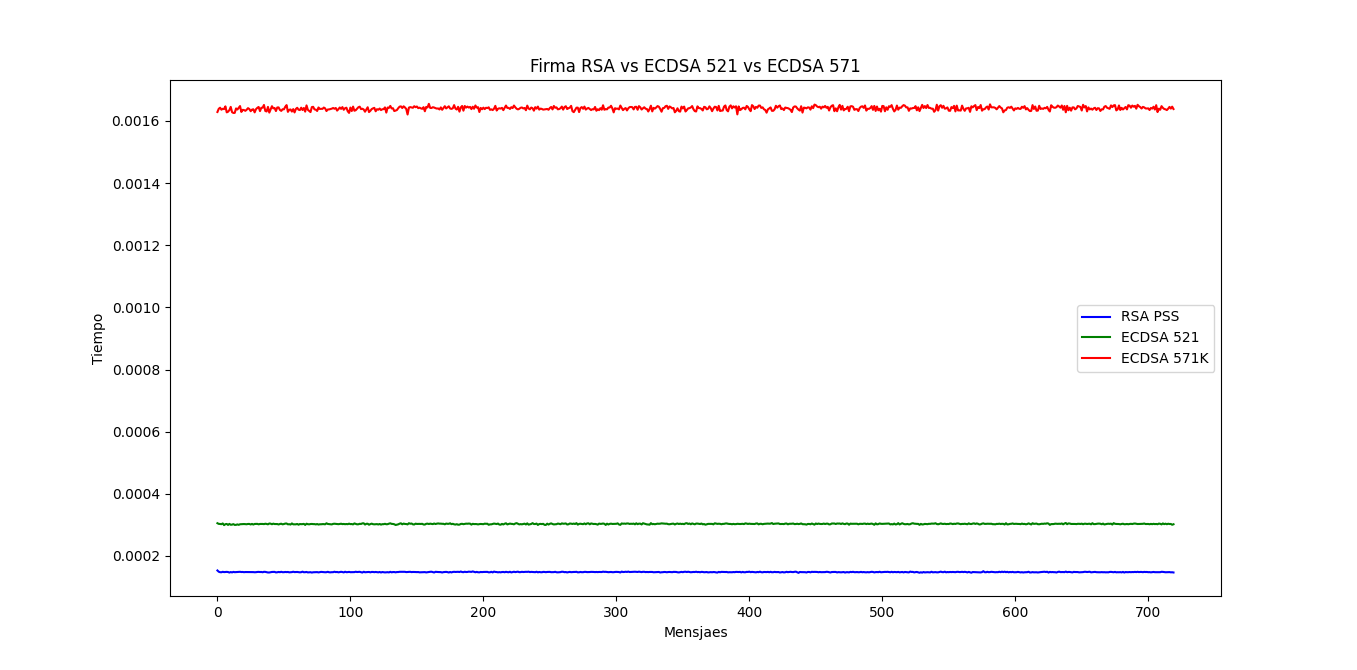
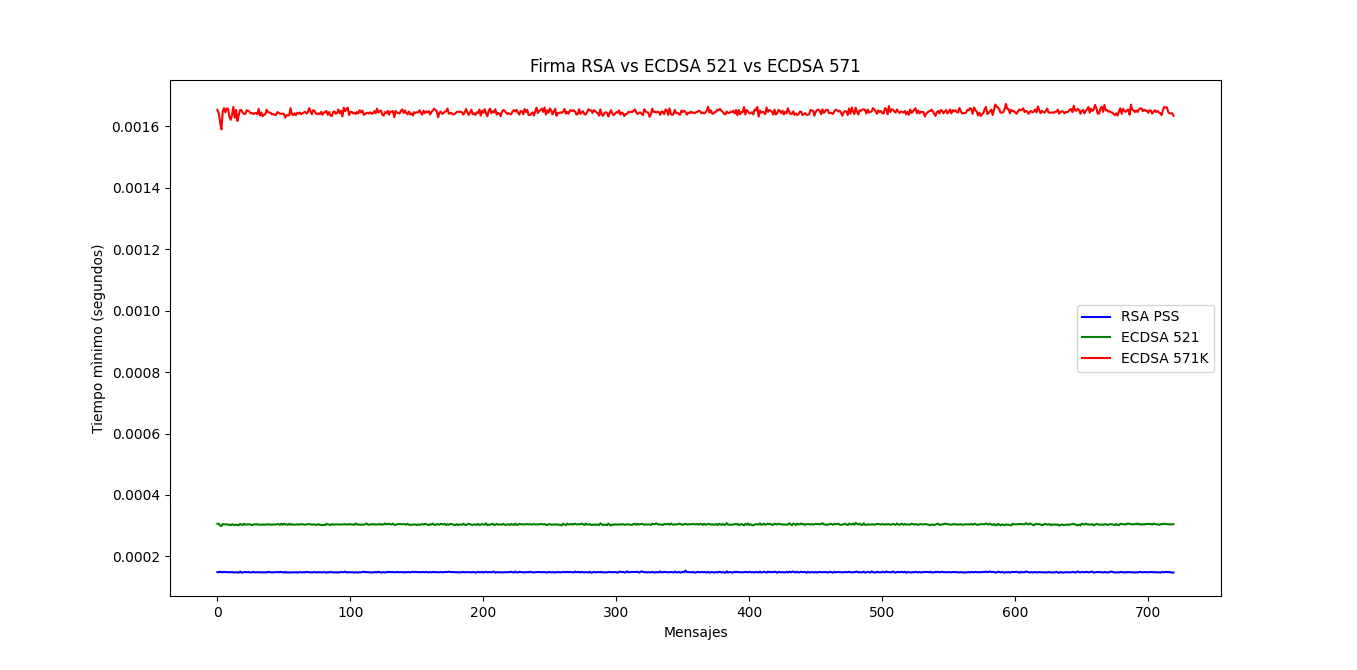
Actualizacion final. Cambio método de medicion de tiempo. Agrego graficas de cifrado y descifrado.

diff --git a/cifrado/test_cifrado.py b/cifrado/test_cifrado.py
@@ -7,16 +7,13 @@ from cryptography.hazmat.primitives.ciphers.modes import CBC
 from cryptography.hazmat.primitives.ciphers.modes import ECB
 from cryptography.hazmat.primitives.ciphers import Cipher, algorithms, modes
 
-import re
 import os
-import secrets
-from time import sleep
-from time import process_time_ns
+import time
+import timeit
 import matplotlib.pyplot as plt
 
 # Devuelve el tiempo mínimo de ejecución para cada algoritmo por cada tamaño de vector de prueba
-def test(v, n):
-    
+def test(v, n, r):
     # Minimo de cada algoritmo para cada vector de prueba
     min_chacha20_enc = [9999999999]*v
     min_chacha20_dec = [9999999999]*v
@@ -27,13 +24,12 @@ def test(v, n):
     min_oaep_enc = [9999999999]*v
     min_oaep_dec = [9999999999]*v
     
-    15625000
-    
     #-> Entradas
     
     #Llaves para RSA-OAEP (tamaño 1024, hash SHA-256)
-    private_key = rsa.generate_private_key(public_exponent=65537,key_size=1024)
-    public_key = private_key.public_key()
+    if r == 1:
+        private_key = rsa.generate_private_key(public_exponent=65537,key_size=1024)
+        public_key = private_key.public_key()
     #Llave para Chacha20 y AES (tamaño 256 bits = 32 bytes)
     key = os.urandom(32)
     #Nonce para Chacha20 (tamaño 128 bits = 16 bytes)
@@ -52,14 +48,12 @@ def test(v, n):
     
     # tamaño de vectores de prueba
     for i in range(v):
+        #print("Para "+str(i))
+        #Vector de tamaño fijo
+        message = os.urandom(62)
         
-        message = os.urandom(i)
-
         # número de pruebas por cada tamaño de vector 
         for j in range(n):
-            
-            #Mensaje diferente en cada iteración
-            #message= secrets.token_hex(v).encode()
             
             #Padding para AES
             padder = pad.PKCS7(128).padder() #bloques de 128 bits
@@ -67,84 +61,89 @@ def test(v, n):
             padded_data += padder.finalize()
             
             #Cifrado Chacha20 (key, nonce)
+            ti = timeit.default_timer() # inicio
             encryptor = cipher_chacha20.encryptor()
-            ti = process_time_ns() # inicio
             ct = encryptor.update(message)
-            tf = process_time_ns()  # fin
+            tf = timeit.default_timer()  # fin
             elapsed_time = tf - ti # tiempo de ejecucion)
             min_chacha20_enc[i] = min(min_chacha20_enc[i], elapsed_time) #Min por cada tamaño de vector
             
             #Decifrado Chacha20 (message)
+            ti = timeit.default_timer() # inicio
             decryptor = cipher_chacha20.decryptor()
-            ti = process_time_ns() # inicio
             pt = decryptor.update(ct)
-            tf = process_time_ns()  # fin
+            tf = timeit.default_timer()  # fin
             elapsed_time = tf - ti # tiempo de ejecucion)
             min_chacha20_dec[i] = min(min_chacha20_dec[i], elapsed_time) #Min por cada tamaño de vector
             
             #Cifrado AES-ECB
+            ti = timeit.default_timer() # inicio
             encryptor = cipher_aes_ecb.encryptor()
-            ti = process_time_ns() # inicio
             ct = encryptor.update(padded_data)
-            tf = process_time_ns()  # fin
+            tf = timeit.default_timer()  # fin
             elapsed_time = tf - ti # tiempo de ejecucion)
             min_ecb_enc[i] = min(min_ecb_enc[i], elapsed_time) #Min por cada tamaño de vector
 
             #Decifrado AES-ECB
+            ti = timeit.default_timer() # inicio
             decryptor = cipher_aes_ecb.decryptor()
-            ti = process_time_ns() # inicio
             pt = decryptor.update(ct)
-            tf = process_time_ns()  # fin
+            tf = timeit.default_timer()  # fin
             elapsed_time = tf - ti # tiempo de ejecucion)
             min_ecb_dec[i] = min(min_ecb_dec[i], elapsed_time) #Min por cada tamaño de vector
             
             #Cifrado AES-CBC
+            ti = timeit.default_timer() # inicio
             encryptor = cipher_aes_cbc.encryptor()
-            ti = process_time_ns() # inicio
             ct = encryptor.update(padded_data)
-            tf = process_time_ns()  # fin
+            tf = timeit.default_timer()  # fin
             elapsed_time = tf - ti # tiempo de ejecucion)
             min_cbc_enc[i] = min(min_cbc_enc[i], elapsed_time) #Min por cada tamaño de vector
 
             #Decifrado AES-CBC
+            ti = timeit.default_timer() # inicio
             decryptor = cipher_aes_cbc.decryptor()
-            ti = process_time_ns() # inicio
             pt = decryptor.update(ct)
-            tf = process_time_ns()  # fin
+            tf = timeit.default_timer()  # fin
             elapsed_time = tf - ti # tiempo de ejecucion)
             min_cbc_dec[i] = min(min_cbc_dec[i], elapsed_time) #Min por cada tamaño de vector
             
-            #Cifrado RSA-OAEP (mensaje)
-            ti = process_time_ns() # inicio
-            ct = public_key.encrypt(message, padding.OAEP(mgf=padding.MGF1(algorithm=hashes.SHA256()), algorithm=hashes.SHA256(), label=None))
-            tf = process_time_ns()  # fin
-            elapsed_time = tf - ti # tiempo de ejecucion)
-            min_oaep_enc[i] = min(min_oaep_enc[i], elapsed_time) #Min por cada tamaño de vector
+            if r == 1 :
+                #Cifrado RSA-OAEP (mensaje)
+                ti = timeit.default_timer() # inicio
+                ct = public_key.encrypt(message, padding.OAEP(mgf=padding.MGF1(algorithm=hashes.SHA256()), algorithm=hashes.SHA256(), label=None))
+                tf = timeit.default_timer()  # fin
+                elapsed_time = tf - ti # tiempo de ejecucion)
+                min_oaep_enc[i] = min(min_oaep_enc[i], elapsed_time) #Min por cada tamaño de vector
             
-            #Decifrado RSA-OAEP (ciphertext)
-            ti = process_time_ns() # inicio
-            pt = private_key.decrypt(ct, padding.OAEP(mgf=padding.MGF1(algorithm=hashes.SHA256()), algorithm=hashes.SHA256(), label=None))
-            tf = process_time_ns()  # fin
-            elapsed_time = tf - ti # tiempo de ejecucion)
-            min_oaep_dec[i] = min(min_oaep_dec[i], elapsed_time) #Min por cada tamaño de vector
+                #Decifrado RSA-OAEP (ciphertext)
+                ti = timeit.default_timer() # inicio
+                pt = private_key.decrypt(ct, padding.OAEP(mgf=padding.MGF1(algorithm=hashes.SHA256()), algorithm=hashes.SHA256(), label=None))
+                tf = timeit.default_timer()  # fin
+                elapsed_time = tf - ti # tiempo de ejecucion)
+                min_oaep_dec[i] = min(min_oaep_dec[i], elapsed_time) #Min por cada tamaño de vector
             
     return [min_chacha20_enc,min_chacha20_dec,min_ecb_enc,min_ecb_dec,min_cbc_enc,min_cbc_dec,min_oaep_enc,min_oaep_dec]
 
- # Devuelve el valor minimo entre dos valores
+#Devuelve el valor minimo entre dos valores
 def min(x,y):
     if x < y:
         return x
     else:
         return y
 
-#-> Main
-
 #Núm máx de tamaño de vector 62 bytes
-resultados = test(62,200)
+resultados = test(62,300,1)
+#Núm máx de tamaño de vector 600 bytes
+resultados2 = test(600,300,0)
 
 n = []
 for x in range(62):
     n.append(x)
+
+n2 = []
+for x in range(600):
+    n2.append(x)
     
 #Gráfica de cifrado
 plt.plot(n, resultados[0], 'r-', label='Chacha20')
@@ -152,10 +151,21 @@ plt.plot(n, resultados[2], 'g-', label='AES-ECB')
 plt.plot(n, resultados[4], 'b-', label='AES-CBC')
 plt.plot(n, resultados[6], 'y-', label='RSA-OAEP')
 plt.xlabel('Vectores de prueba')
-plt.ylabel('Minimo de tiempo de ejecuciòn (nanosegundos)')
+plt.ylabel('Mínimo de tiempo de ejecución')
 plt.legend(loc='upper left')
 plt.suptitle('Cifrado Chacha20 vs AES-ECB vs AES-CBC vs RSA-OAEP')
 plt.title('Tamaño de vectores de prueba 62 bytes')
+plt.show()
+
+#Gráfica de cifrado
+plt.plot(n2, resultados2[0], 'r-', label='Chacha20')
+plt.plot(n2, resultados2[2], 'g-', label='AES-ECB')
+plt.plot(n2, resultados2[4], 'b-', label='AES-CBC')
+plt.xlabel('Vectores de prueba')
+plt.ylabel('Mínimo de tiempo de ejecución')
+plt.legend(loc='upper left')
+plt.suptitle('Cifrado Chacha20 vs AES-ECB vs AES-CBC')
+plt.title('Tamaño de vectores de prueba 600 bytes')
 plt.show()
     
 #Gráfica de decifrado
@@ -164,8 +174,19 @@ plt.plot(n, resultados[3], 'g-', label='AES-ECB')
 plt.plot(n, resultados[5], 'b-', label='AES-CBC')
 plt.plot(n, resultados[7], 'y-', label='RSA-OAEP')
 plt.xlabel('Vectores de prueba')
-plt.ylabel('Minimo de tiempo de ejecuciòn (nanosegundos)')
+plt.ylabel('Mínimo de tiempo de ejecución')
 plt.legend(loc='upper left')
 plt.suptitle('Decifrado Chacha20 vs AES-ECB vs AES-CBC vs RSA-OAEP')
 plt.title('Tamaño de vectores de prueba 62 bytes')
+plt.show()
+
+#Gráfica de decifrado
+plt.plot(n2, resultados2[1], 'r-', label='Chacha20')
+plt.plot(n2, resultados2[3], 'g-', label='AES-ECB')
+plt.plot(n2, resultados2[5], 'b-', label='AES-CBC')
+plt.xlabel('Vectores de prueba')
+plt.ylabel('Mínimo de tiempo de ejecución')
+plt.legend(loc='upper left')
+plt.suptitle('Decifrado Chacha20 vs AES-ECB vs AES-CBC')
+plt.title('Tamaño de vectores de prueba 600 bytes')
 plt.show()

diff --git a/firma/test_firma.py b/firma/test_firma.py
@@ -5,9 +5,8 @@ Created on Sat Oct 30 13:22:41 2021
 """
 
 import matplotlib.pyplot as plt
-import time
+import timeit
 import re
-from time import process_time_ns
 from cryptography.hazmat.primitives import hashes
 from cryptography.hazmat.primitives.asymmetric import ec
 from cryptography.hazmat.primitives.asymmetric import rsa
@@ -31,19 +30,19 @@ def signature(pk_rsa,pk_ecdsa_521,pk_ecdsa_571,line_bytes):
     
     signatures = []    
     
-    ti = time.time()
+    ti = timeit.default_timer()
     rsa_sig = pk_rsa.sign(line_bytes,padding.PSS(mgf=padding.MGF1(hashes.SHA256()), salt_length=padding.PSS.MAX_LENGTH),hashes.SHA256())
-    tf = time.time()
+    tf = timeit.default_timer()
     rsa_pss = tf - ti
     
-    ti = time.time()
+    ti = timeit.default_timer()
     ecdsa_521_sig = pk_ecdsa_521.sign(line_bytes,ec.ECDSA(hashes.SHA256()))
-    tf = time.time()
+    tf = timeit.default_timer()
     ecdsa_521 = tf - ti
     
-    ti = time.time()
+    ti = timeit.default_timer()
     ecdsa_571_sig = pk_ecdsa_571.sign(line_bytes,ec.ECDSA(hashes.SHA256()))
-    tf = time.time()
+    tf = timeit.default_timer()
     ecdsa_571k = tf - ti
     
     #Firma RSA
@@ -61,23 +60,23 @@ def verification(signatures,publicKeys,line_bytes):
     
     #RSA
     #publicKeys[0] = pbk_rsa ----------------- signatures[0] = rsa_sig
-    ti = time.time()
+    ti = timeit.default_timer()
     publicKeys[0].verify(signatures[0],line_bytes,padding.PSS(mgf=padding.MGF1(hashes.SHA256()),salt_length=padding.PSS.MAX_LENGTH),hashes.SHA256())
-    tf = time.time()
+    tf = timeit.default_timer()
     rsa_ver = tf - ti
     
     #ECDSA 521
     #publicKeys[1] = pbk_ecdsa_521 ----------------- signatures[1] = ecdsa_521_sig
-    ti = time.time()
+    ti = timeit.default_timer()
     publicKeys[1].verify(signatures[1], line_bytes, ec.ECDSA(hashes.SHA256()))
-    tf = time.time()
+    tf = timeit.default_timer()
     ecdsa_521_ver = tf - ti
     
     #ECDSA 571
     #publicKeys[2] = pbk_ecdsa_571 ----------------- signatures[0] = ecdsa_571_sig
-    ti = time.time()
+    ti = timeit.default_timer()
     publicKeys[2].verify(signatures[2], line_bytes, ec.ECDSA(hashes.SHA256()))
-    tf = time.time()
+    tf = timeit.default_timer()
     ecdsa_571_ver = tf - ti
     
     return rsa_ver, ecdsa_521_ver, ecdsa_571_ver
@@ -146,8 +145,8 @@ def main():
     plt.plot(num,sign_times[0],'-b',label='RSA PSS')
     plt.plot(num,sign_times[1],'-g',label='ECDSA 521')
     plt.plot(num,sign_times[2],'-r',label='ECDSA 571K')
-    plt.xlabel('Mensjaes')
-    plt.ylabel('Tiempo')
+    plt.xlabel('Mensajes')
+    plt.ylabel('Tiempo mìnimo (segundos)')
     plt.legend(loc='best')
     plt.title('Firma RSA vs ECDSA 521 vs ECDSA 571')
     plt.show()
@@ -158,8 +157,8 @@ def main():
     plt.plot(num,ver_times[0],'-b',label='RSA PSS')
     plt.plot(num,ver_times[1],'-g',label='ECDSA 521')
     plt.plot(num,ver_times[2],'-r',label='ECDSA 571K')  
-    plt.xlabel('Messages')
-    plt.ylabel('Time')
+    plt.xlabel('Mensajes')
+    plt.ylabel('Tiempo mìnimo (segundos)')
     plt.legend(loc='best')
     plt.title('Verificación de firma RSA vs ECDSA 521 vs ECDSA 571')
     plt.show()

diff --git a/hash/test_hash.py b/hash/test_hash.py
@@ -1,6 +1,6 @@
 import hashlib as hashes
 import re
-from time import sleep
+import timeit
 from time import process_time_ns
 import matplotlib.pyplot as plt
 
@@ -25,36 +25,36 @@ def test(files, n):
             # SHA2-384
             m = hashes.sha384()
             m.update(vectors[j]) # Vector j
-            ti = process_time_ns() # inicio
+            ti = timeit.default_timer()#ti = process_time_ns() # inicio
             m.digest()
-            tf = process_time_ns() # fin
+            tf = timeit.default_timer()#tf = process_time_ns() # fin
             elapsed_time = tf - ti # tiempo de ejecucion
             min_sha384[j] = min(min_sha384[j],elapsed_time)
             
             # SHA2-512
             m = hashes.sha512()
             m.update(vectors[j]) # Vector j
-            ti = process_time_ns() # inicio 
+            ti = timeit.default_timer()#ti = process_time_ns() # inicio 
             m.digest()
-            tf = process_time_ns()  # fin
+            tf = timeit.default_timer()#tf = process_time_ns()  # fin
             elapsed_time = tf - ti # tiempo de ejecucion)
             min_sha512[j] = min(min_sha512[j],elapsed_time)
             
             # SHA3-384
             m = hashes.sha3_384()
             m.update(vectors[j]) # Vector j
-            ti = process_time_ns() # inicio
+            ti = timeit.default_timer()#ti = process_time_ns() # inicio
             m.digest()
-            tf = process_time_ns() # fin
+            tf = timeit.default_timer()#tf = process_time_ns() # fin
             elapsed_time = tf - ti # tiempo de ejecucion
             min_sha3_384[j] = min(min_sha3_384[j],elapsed_time)
             
             # SHA3-512
             m = hashes.sha3_512()
             m.update(vectors[j]) # Vector j
-            ti = process_time_ns() # inicio 
+            ti = timeit.default_timer()#ti = process_time_ns() # inicio 
             m.digest()
-            tf = process_time_ns() # fin
+            tf = timeit.default_timer()#tf = process_time_ns() # fin
             elapsed_time = tf - ti # tiempo de ejecucion
             min_sha3_512[j] = min(min_sha3_512[j],elapsed_time)
 
@@ -107,6 +107,6 @@ plt.plot(n, resultados[3], 'y-', label='SHA3-512')
 
 plt.legend(loc='upper left')
 plt.xlabel('Vectores de prueba')
-plt.ylabel('Minimo de tiempo de ejecuciòn (nanosegundos)')
-plt.title('Tiempo de ejecución de vectores de prueba (N = 100)')
+plt.ylabel('Minimo de tiempo de ejecuciòn (segundos)')
+plt.title('Tiempo de ejecución de vectores de prueba')
 plt.show()
